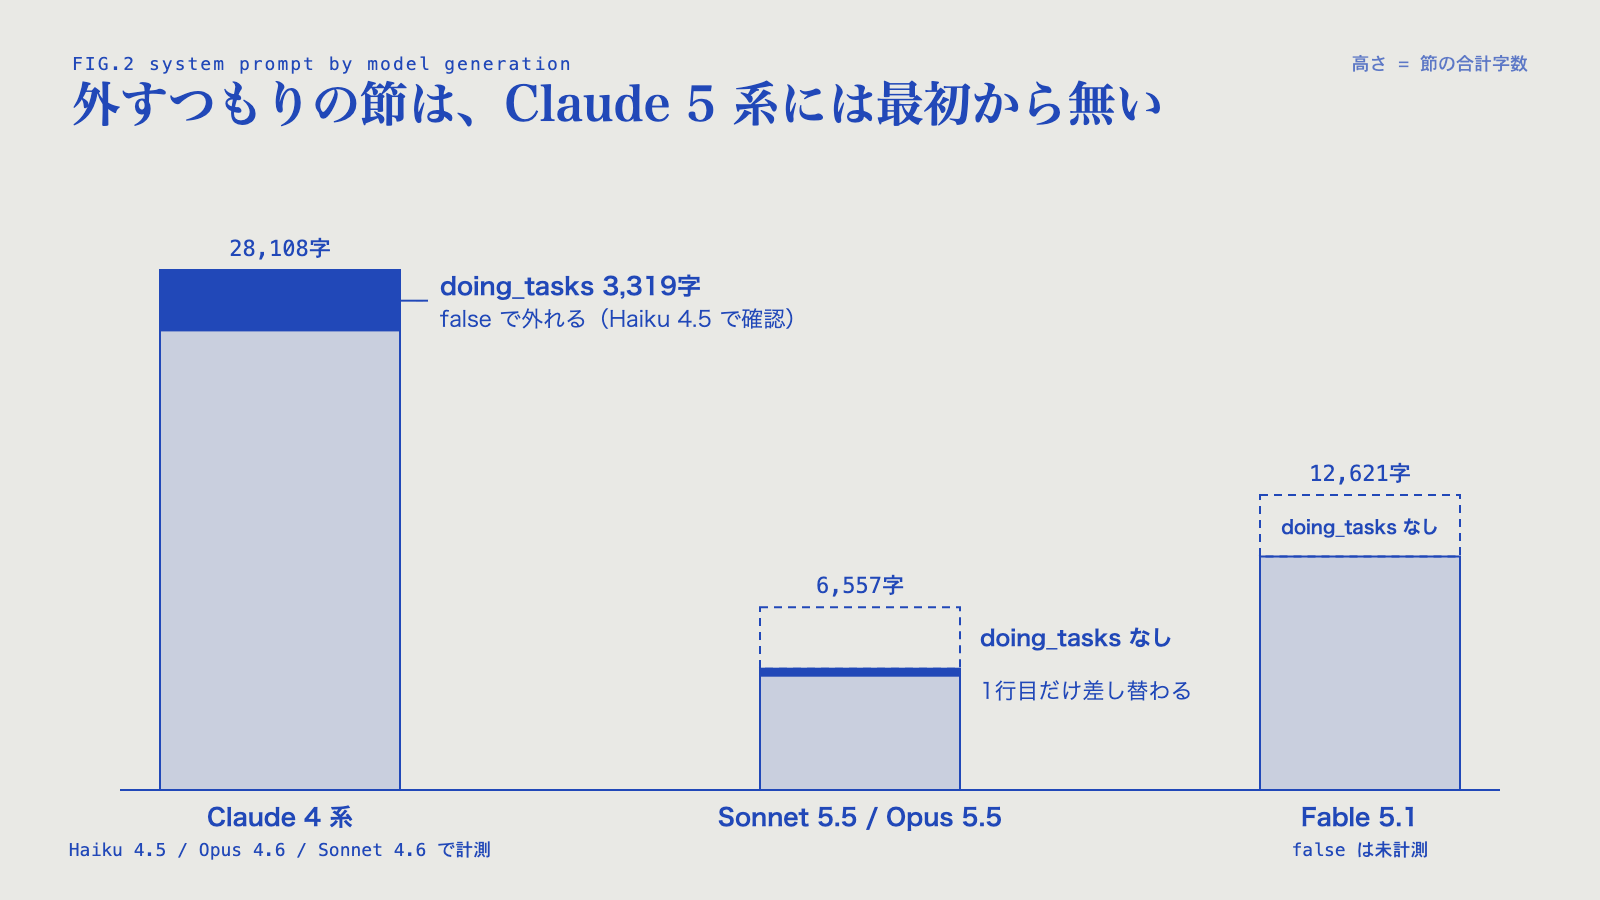
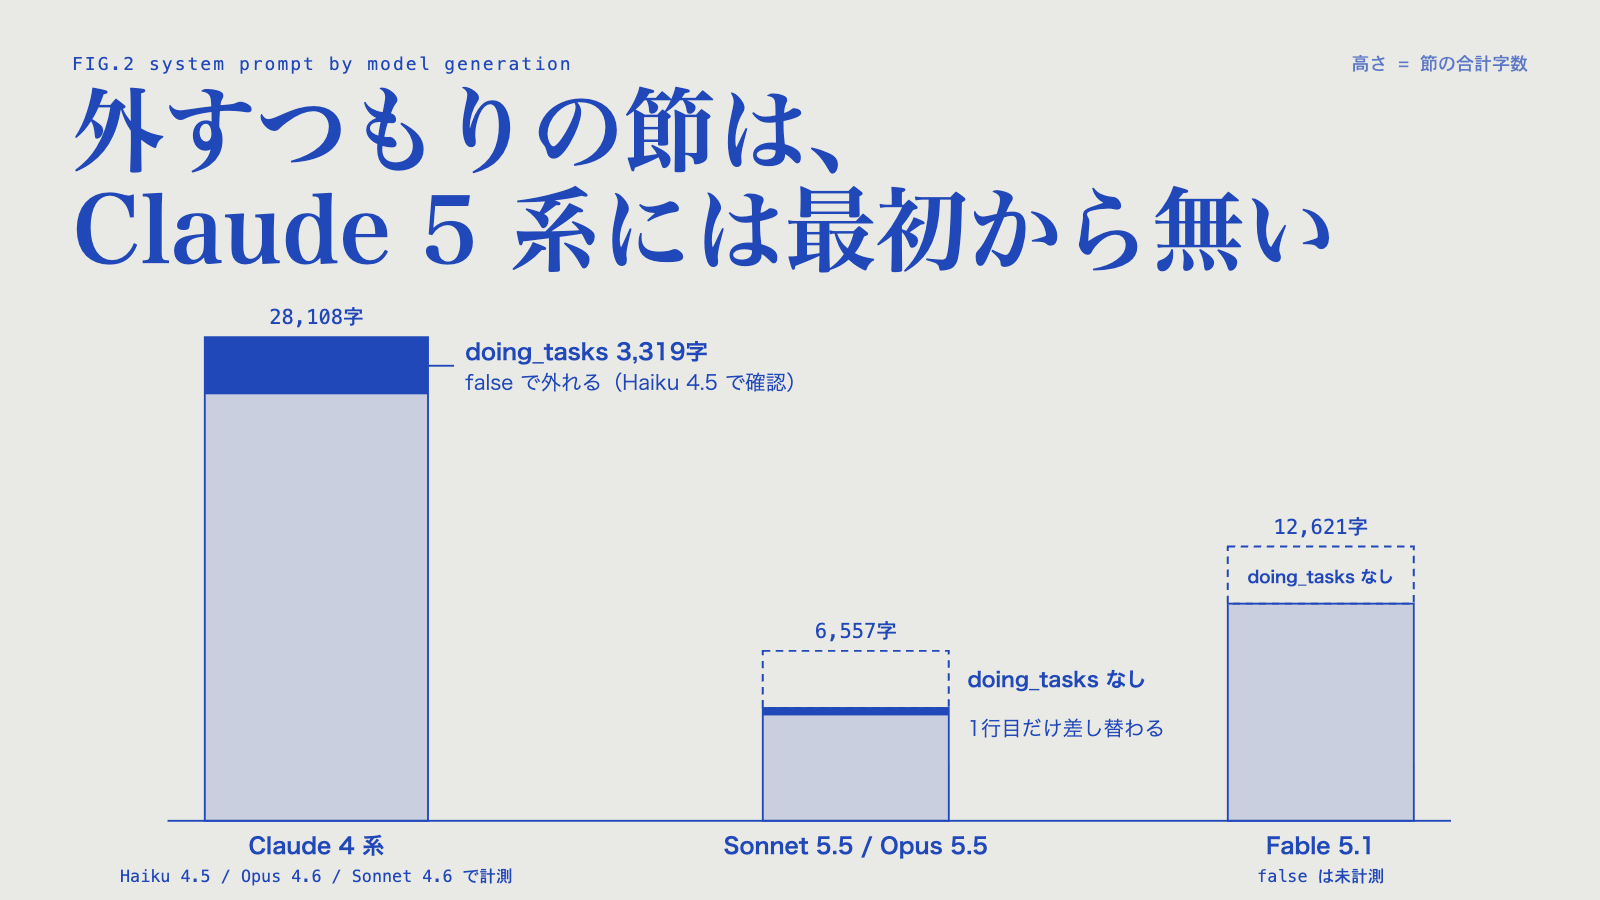
feat(articles): harness-scope 記事の図の見出しを mono-color の文字の階層に合わせる
Context: mono-color の Typography の「最大の文字は最小の 5〜12 倍」を図にも当てるか、見出し 92px・2 行の版と見比べた。
Decision: 図にも当てる。見出しを 92px・2 行にし、図の部分を縮めて（hero 0.86 倍、図 2 0.93 倍）最小の文字との比を 5 倍以上にする。図の文字と数字は変えない。
Review-when: Zenn の表示で縮めた注記が読めないと分かったとき。

指摘: 「案2の方が断然いい。規則を図にも当てる」
Trigger: 「最大の文字は最小の 5〜12 倍」を図で使うかの 2 案を、実物で見比べた
Expect: Zenn の表示で、縮めた図の小さな注記（「数はリポジトリ分を含む」など）が読めないと言われる

Changed region(s): [[0.0312, 0.0933, 0.9375, 0.9956]]

diff --git a/figures/harness-scope-writing-harness-generations.html b/figures/harness-scope-writing-harness-generations.html
@@ -1,4 +1,4 @@
 <!doctype html>
 <html lang="ja"><head><meta charset="utf-8"><title>fig2</title>
 <style>html,body{margin:0;width:1600px;height:900px;background:#E9E9E5;overflow:hidden}svg{display:block;font-family:"Hiragino Sans","Hiragino Kaku Gothic ProN",system-ui,sans-serif}</style></head><body>
-<svg viewBox="0 0 1600 900" width="1600" height="900" role="img" aria-label="system prompt の節の合計は Claude 4 系（Haiku 4.5 / Opus 4.6 / Sonnet 4.6）で 28,108字、Sonnet 5.5 / Opus 5.5 は 6,557字、Fable 5.1 は 12,621字。doing_tasks 3,319字は 4 系にあり（false で外れることは Haiku 4.5 で確認）、5 系には最初から無い。Sonnet 5.5 / Opus 5.5 で出力スタイルを選んで変わるのは本体の1行目だけ。Fable 5.1 の false は未計測。"><text x="72" y="70" font-size="18" fill="#2148B8" font-family="Menlo, monospace" letter-spacing="2">FIG.2  system prompt by model generation</text><text x="72" y="122" font-size="48" font-weight="600" fill="#2148B8" font-family="Hiragino Mincho ProN, serif">外すつもりの節は、Claude 5 系には最初から無い</text><text x="1528" y="70" font-size="18" fill="#2148B8" font-family="Menlo, monospace" text-anchor="end" opacity=".7">高さ = 節の合計字数</text><line x1="120" y1="790" x2="1500" y2="790" stroke="#2148B8" stroke-width="2"/><rect x="160" y="270.0" width="240" height="520.0" fill="#2148B8" fill-opacity=".16" stroke="#2148B8" stroke-width="2"/><rect x="160" y="270.0" width="240" height="61.4" fill="#2148B8"/><text x="280.0" y="256.0" font-size="22" fill="#2148B8" text-anchor="middle" font-family="Menlo, monospace">28,108字</text><line x1="400" y1="300.7" x2="428" y2="300.7" stroke="#2148B8" stroke-width="2"/><text x="440" y="294.7" font-size="24" font-weight="700" fill="#2148B8">doing_tasks 3,319字</text><text x="440" y="326.7" font-size="22" fill="#2148B8">false で外れる（Haiku 4.5 で確認）</text><text x="280.0" y="826" font-size="24" font-weight="700" fill="#2148B8" text-anchor="middle">Claude 4 系</text><text x="280.0" y="856" font-size="18" fill="#2148B8" text-anchor="middle" font-family="Menlo, monospace">Haiku 4.5 / Opus 4.6 / Sonnet 4.6 で計測</text><rect x="760" y="607.3000000000001" width="200" height="61.4" fill="none" stroke="#2148B8" stroke-width="2" stroke-dasharray="8 6"/><rect x="760" y="668.7" width="200" height="121.3" fill="#2148B8" fill-opacity=".16" stroke="#2148B8" stroke-width="2"/><rect x="760" y="668.7" width="200" height="8" fill="#2148B8"/><text x="860.0" y="593.3000000000001" font-size="22" fill="#2148B8" text-anchor="middle" font-family="Menlo, monospace">6,557字</text><text x="980" y="646.0" font-size="22" font-weight="700" fill="#2148B8">doing_tasks なし</text><text x="980" y="698.7" font-size="22" fill="#2148B8">1行目だけ差し替わる</text><text x="860.0" y="826" font-size="24" font-weight="700" fill="#2148B8" text-anchor="middle">Sonnet 5.5 / Opus 5.5</text><rect x="1260" y="495.1" width="200" height="61.4" fill="none" stroke="#2148B8" stroke-width="2" stroke-dasharray="8 6"/><text x="1360.0" y="533.8" font-size="18" font-weight="700" fill="#2148B8" text-anchor="middle">doing_tasks なし</text><rect x="1260" y="556.5" width="200" height="233.5" fill="#2148B8" fill-opacity=".16" stroke="#2148B8" stroke-width="2"/><text x="1360.0" y="481.1" font-size="22" fill="#2148B8" text-anchor="middle" font-family="Menlo, monospace">12,621字</text><text x="1360.0" y="826" font-size="24" font-weight="700" fill="#2148B8" text-anchor="middle">Fable 5.1</text><text x="1360" y="856" font-size="18" fill="#2148B8" text-anchor="middle" font-family="Menlo, monospace">false は未計測</text></svg></body></html>
+<svg viewBox="0 0 1600 900" width="1600" height="900" role="img" aria-label="system prompt の節の合計は Claude 4 系（Haiku 4.5 / Opus 4.6 / Sonnet 4.6）で 28,108字、Sonnet 5.5 / Opus 5.5 は 6,557字、Fable 5.1 は 12,621字。doing_tasks 3,319字は 4 系にあり（false で外れることは Haiku 4.5 で確認）、5 系には最初から無い。Sonnet 5.5 / Opus 5.5 で出力スタイルを選んで変わるのは本体の1行目だけ。Fable 5.1 の false は未計測。"><text x="72" y="70" font-size="18" fill="#2148B8" font-family="Menlo, monospace" letter-spacing="2">FIG.2  system prompt by model generation</text><text x="72" y="165" font-size="92" font-weight="600" fill="#2148B8" font-family="Hiragino Mincho ProN, serif">外すつもりの節は、</text><text x="72" y="265" font-size="92" font-weight="600" fill="#2148B8" font-family="Hiragino Mincho ProN, serif">Claude 5 系には最初から無い</text><text x="1528" y="70" font-size="18" fill="#2148B8" font-family="Menlo, monospace" text-anchor="end" opacity=".7">高さ = 節の合計字数</text><g transform="translate(56.0,86.1) scale(0.93)"><line x1="120" y1="790" x2="1500" y2="790" stroke="#2148B8" stroke-width="2"/><rect x="160" y="270.0" width="240" height="520.0" fill="#2148B8" fill-opacity=".16" stroke="#2148B8" stroke-width="2"/><rect x="160" y="270.0" width="240" height="61.4" fill="#2148B8"/><text x="280.0" y="256.0" font-size="22" fill="#2148B8" text-anchor="middle" font-family="Menlo, monospace">28,108字</text><line x1="400" y1="300.7" x2="428" y2="300.7" stroke="#2148B8" stroke-width="2"/><text x="440" y="294.7" font-size="24" font-weight="700" fill="#2148B8">doing_tasks 3,319字</text><text x="440" y="326.7" font-size="22" fill="#2148B8">false で外れる（Haiku 4.5 で確認）</text><text x="280.0" y="826" font-size="24" font-weight="700" fill="#2148B8" text-anchor="middle">Claude 4 系</text><text x="280.0" y="856" font-size="18" fill="#2148B8" text-anchor="middle" font-family="Menlo, monospace">Haiku 4.5 / Opus 4.6 / Sonnet 4.6 で計測</text><rect x="760" y="607.3000000000001" width="200" height="61.4" fill="none" stroke="#2148B8" stroke-width="2" stroke-dasharray="8 6"/><rect x="760" y="668.7" width="200" height="121.3" fill="#2148B8" fill-opacity=".16" stroke="#2148B8" stroke-width="2"/><rect x="760" y="668.7" width="200" height="8" fill="#2148B8"/><text x="860.0" y="593.3000000000001" font-size="22" fill="#2148B8" text-anchor="middle" font-family="Menlo, monospace">6,557字</text><text x="980" y="646.0" font-size="22" font-weight="700" fill="#2148B8">doing_tasks なし</text><text x="980" y="698.7" font-size="22" fill="#2148B8">1行目だけ差し替わる</text><text x="860.0" y="826" font-size="24" font-weight="700" fill="#2148B8" text-anchor="middle">Sonnet 5.5 / Opus 5.5</text><rect x="1260" y="495.1" width="200" height="61.4" fill="none" stroke="#2148B8" stroke-width="2" stroke-dasharray="8 6"/><text x="1360.0" y="533.8" font-size="18" font-weight="700" fill="#2148B8" text-anchor="middle">doing_tasks なし</text><rect x="1260" y="556.5" width="200" height="233.5" fill="#2148B8" fill-opacity=".16" stroke="#2148B8" stroke-width="2"/><text x="1360.0" y="481.1" font-size="22" fill="#2148B8" text-anchor="middle" font-family="Menlo, monospace">12,621字</text><text x="1360.0" y="826" font-size="24" font-weight="700" fill="#2148B8" text-anchor="middle">Fable 5.1</text><text x="1360" y="856" font-size="18" fill="#2148B8" text-anchor="middle" font-family="Menlo, monospace">false は未計測</text></g></svg></body></html>

diff --git a/figures/harness-scope-writing-harness-turns.html b/figures/harness-scope-writing-harness-turns.html
@@ -1,4 +1,4 @@
 <!doctype html>
 <html lang="ja"><head><meta charset="utf-8"><title>fig3</title>
 <style>html,body{margin:0;width:1600px;height:900px;background:#E9E9E5;overflow:hidden}svg{display:block;font-family:"Hiragino Sans","Hiragino Kaku Gothic ProN",system-ui,sans-serif}</style></head><body>
-<svg viewBox="0 0 1600 900" width="1600" height="900" role="img" aria-label="出力スタイルの本文（会話の規約 7項目）が新しく差し込まれるのは1ターン目だけ。2ターン目に新しく差し込まれるのは名前の念押し95字だけ。"><text x="72" y="70" font-size="18" fill="#2148B8" font-family="Menlo, monospace" letter-spacing="2">FIG.3  reminders inserted per turn</text><text x="72" y="122" font-size="48" font-weight="600" fill="#2148B8" font-family="Hiragino Mincho ProN, serif">規約の本文が差し込まれるのは、最初のターンだけ</text><text x="1528" y="70" font-size="18" fill="#2148B8" font-family="Menlo, monospace" text-anchor="end" opacity=".7">高さ = 字数</text><line x1="160" y1="250" x2="1460" y2="250" stroke="#2148B8" stroke-width="3"/><path d="M1460,240 L1480,250 L1460,260 z" fill="#2148B8"/><circle cx="480" cy="250" r="14" fill="#2148B8"/><text x="480" y="220" font-size="28" font-weight="700" fill="#2148B8" text-anchor="middle">1ターン目</text><line x1="480" y1="264" x2="480" y2="296" stroke="#2148B8" stroke-width="2"/><circle cx="1120" cy="250" r="14" fill="#2148B8"/><text x="1120" y="220" font-size="28" font-weight="700" fill="#2148B8" text-anchor="middle">2ターン目</text><line x1="1120" y1="264" x2="1120" y2="296" stroke="#2148B8" stroke-width="2"/><rect x="300" y="300" width="360" height="333" fill="#ADB9D7"/><text x="328" y="348" font-size="28" font-weight="700" fill="#2148B8">出力スタイルの本文</text><text x="328" y="386" font-size="22" fill="#2148B8">会話の規約 7項目</text><rect x="300" y="645" width="360" height="57" fill="#2148B8"/><text x="328" y="681.5" font-size="22" font-weight="700" fill="#E9E9E5">名前の念押し 95字</text><rect x="940" y="300" width="360" height="333" fill="none" stroke="#2148B8" stroke-width="2" stroke-dasharray="8 6"/><text x="1120.0" y="474.5" font-size="24" font-weight="700" fill="#2148B8" text-anchor="middle">本文は差し込まれない</text><rect x="940" y="645" width="360" height="57" fill="#2148B8"/><text x="968" y="681.5" font-size="22" font-weight="700" fill="#E9E9E5">名前の念押し 95字</text><text x="72" y="772" font-size="18" fill="#2148B8" font-family="Menlo, monospace" opacity=".8">新しく差し込まれるリマインダー / probe, Claude Code 2.1.288</text></svg></body></html>
+<svg viewBox="0 0 1600 900" width="1600" height="900" role="img" aria-label="出力スタイルの本文（会話の規約 7項目）が新しく差し込まれるのは1ターン目だけ。2ターン目に新しく差し込まれるのは名前の念押し95字だけ。"><text x="72" y="70" font-size="18" fill="#2148B8" font-family="Menlo, monospace" letter-spacing="2">FIG.3  reminders inserted per turn</text><text x="72" y="165" font-size="92" font-weight="600" fill="#2148B8" font-family="Hiragino Mincho ProN, serif">規約の本文が差し込まれるのは、</text><text x="72" y="265" font-size="92" font-weight="600" fill="#2148B8" font-family="Hiragino Mincho ProN, serif">最初のターンだけ</text><text x="1528" y="70" font-size="18" fill="#2148B8" font-family="Menlo, monospace" text-anchor="end" opacity=".7">高さ = 字数</text><g transform="translate(0.0,105.0) scale(1.0)"><line x1="160" y1="250" x2="1460" y2="250" stroke="#2148B8" stroke-width="3"/><path d="M1460,240 L1480,250 L1460,260 z" fill="#2148B8"/><circle cx="480" cy="250" r="14" fill="#2148B8"/><text x="480" y="220" font-size="28" font-weight="700" fill="#2148B8" text-anchor="middle">1ターン目</text><line x1="480" y1="264" x2="480" y2="296" stroke="#2148B8" stroke-width="2"/><circle cx="1120" cy="250" r="14" fill="#2148B8"/><text x="1120" y="220" font-size="28" font-weight="700" fill="#2148B8" text-anchor="middle">2ターン目</text><line x1="1120" y1="264" x2="1120" y2="296" stroke="#2148B8" stroke-width="2"/><rect x="300" y="300" width="360" height="333" fill="#ADB9D7"/><text x="328" y="348" font-size="28" font-weight="700" fill="#2148B8">出力スタイルの本文</text><text x="328" y="386" font-size="22" fill="#2148B8">会話の規約 7項目</text><rect x="300" y="645" width="360" height="57" fill="#2148B8"/><text x="328" y="681.5" font-size="22" font-weight="700" fill="#E9E9E5">名前の念押し 95字</text><rect x="940" y="300" width="360" height="333" fill="none" stroke="#2148B8" stroke-width="2" stroke-dasharray="8 6"/><text x="1120.0" y="474.5" font-size="24" font-weight="700" fill="#2148B8" text-anchor="middle">本文は差し込まれない</text><rect x="940" y="645" width="360" height="57" fill="#2148B8"/><text x="968" y="681.5" font-size="22" font-weight="700" fill="#E9E9E5">名前の念押し 95字</text><text x="72" y="772" font-size="18" fill="#2148B8" font-family="Menlo, monospace" opacity=".8">新しく差し込まれるリマインダー / probe, Claude Code 2.1.288</text></g></svg></body></html>

diff --git a/figures/harness-scope-writing-harness-hero.html b/figures/harness-scope-writing-harness-hero.html
@@ -12,7 +12,7 @@ svg{display:block;font-family:"Hiragino Sans","Hiragino Kaku Gothic ProN",system
   </defs>
 
   <!-- title -->
-  <text x="72" y="70" font-size="18" fill="#2148B8" font-family="Menlo, monospace" letter-spacing="2">FIG.1  harness-scope × output style</text><text x="72" y="122" font-size="48" font-weight="600" fill="#2148B8" font-family="Hiragino Mincho ProN, serif">見せるものと話し方を、別の場所で決める</text>
+  <text x="72" y="70" font-size="18" fill="#2148B8" font-family="Menlo, monospace" letter-spacing="2">FIG.1  harness-scope × output style</text><text x="72" y="165" font-size="92" font-weight="600" fill="#2148B8" font-family="Hiragino Mincho ProN, serif">見せるものと話し方を、</text><text x="72" y="265" font-size="92" font-weight="600" fill="#2148B8" font-family="Hiragino Mincho ProN, serif">別の場所で決める</text><g transform="translate(112.0,153.8) scale(0.86)">
 
   <!-- global harness -->
   <rect x="72" y="170" width="420" height="370" rx="4" fill="none" stroke="#2148B8" stroke-width="3"/>
@@ -91,5 +91,5 @@ svg{display:block;font-family:"Hiragino Sans","Hiragino Kaku Gothic ProN",system
   <rect x="1206" y="740" width="302" height="92" rx="2" fill="#E9E9E5"/>
   <text x="1226" y="770" font-size="20" font-weight="700" fill="#2148B8" letter-spacing="1">話し方</text>
   <text x="1226" y="804" font-size="24" fill="#2148B8">会話の規約</text>
-<path d="M1186,291 L1200,300 L1186,309 z" fill="#E9E9E5"/><path d="M1186,361 L1200,370 L1186,379 z" fill="#E9E9E5"/><path d="M1186,431 L1200,440 L1186,449 z" fill="#E9E9E5"/><path d="M1186,623 L1200,632 L1186,641 z" fill="#E9E9E5"/><path d="M1186,779 L1200,788 L1186,797 z" fill="#E9E9E5"/><text x="1226" y="524" font-size="22" fill="#E9E9E5" opacity=".62">外したものは届かない</text><text x="611" y="486" font-size="18" fill="#2148B8" text-anchor="middle" font-family="Menlo, monospace" opacity=".75">数はリポジトリ分を含む</text></svg>
+<path d="M1186,291 L1200,300 L1186,309 z" fill="#E9E9E5"/><path d="M1186,361 L1200,370 L1186,379 z" fill="#E9E9E5"/><path d="M1186,431 L1200,440 L1186,449 z" fill="#E9E9E5"/><path d="M1186,623 L1200,632 L1186,641 z" fill="#E9E9E5"/><path d="M1186,779 L1200,788 L1186,797 z" fill="#E9E9E5"/><text x="1226" y="524" font-size="22" fill="#E9E9E5" opacity=".62">外したものは届かない</text><text x="611" y="486" font-size="18" fill="#2148B8" text-anchor="middle" font-family="Menlo, monospace" opacity=".75">数はリポジトリ分を含む</text></g></svg>
 </body></html>
